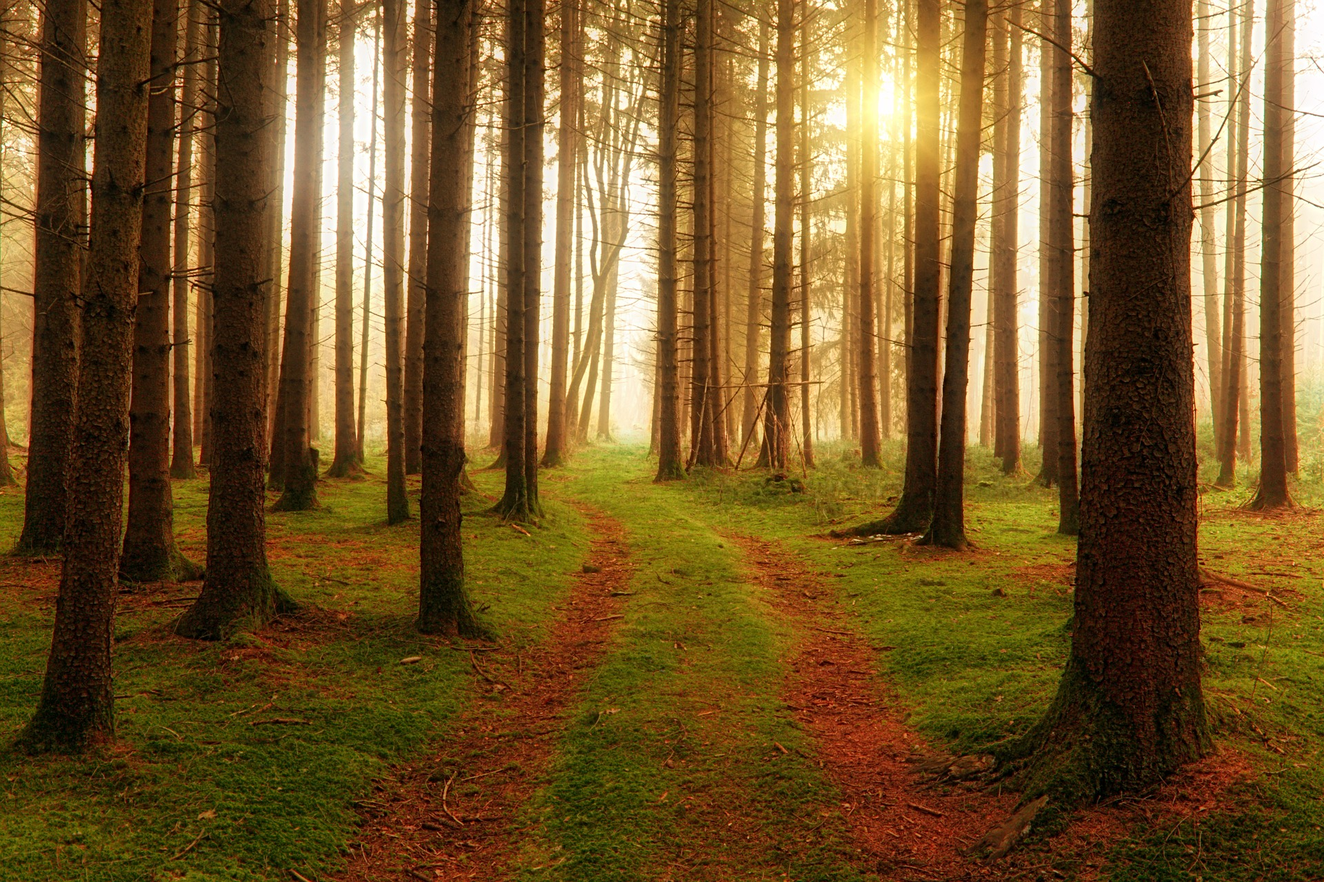
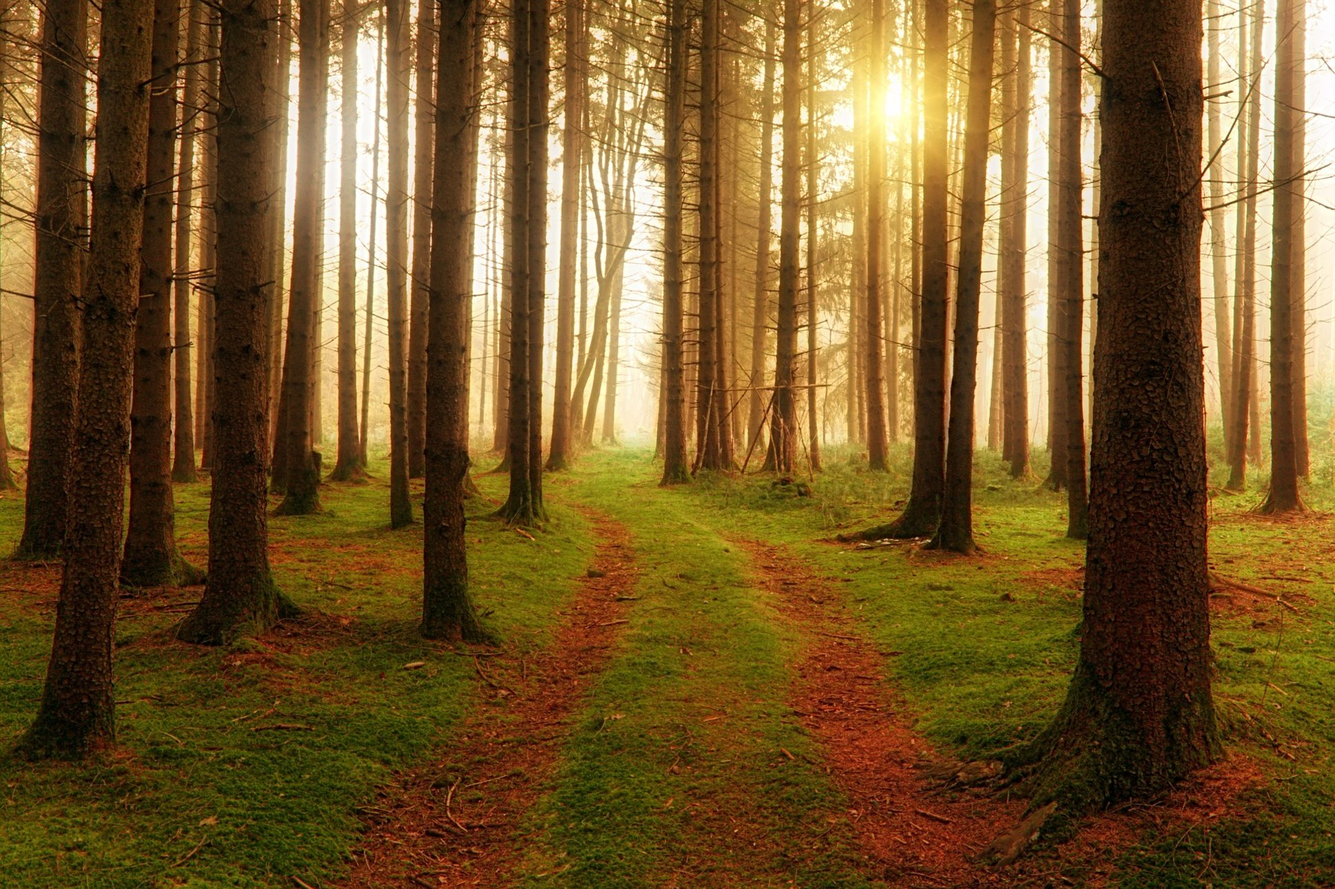
optimized background images

Changed region(s): [[0.0, 0.125, 0.0312, 0.1562]]

diff --git a/references.html b/references.html
@@ -5,7 +5,7 @@ place: right
 permalink: /references/
 innav: true
 index: 5
-img: piles_adour_modif.png
+img: piles_adour_modif.jpg
 ---
 <ul class="post-list">
     <div class="row">

diff --git a/technologies.html b/technologies.html
@@ -7,5 +7,5 @@ place: dropdown
 permalink: /technologies/
 index: 3
 icon: glyphicon glyphicon-phone
-img: maps_screen.png
+img: maps_screen.jpg
 ---

diff --git a/logistique.html b/logistique.html
@@ -5,6 +5,6 @@ collection: logistique
 place: dropdown
 type: services
 index: 2
-img: ponsse.png
+img: ponsse.jpg
 ---
 
